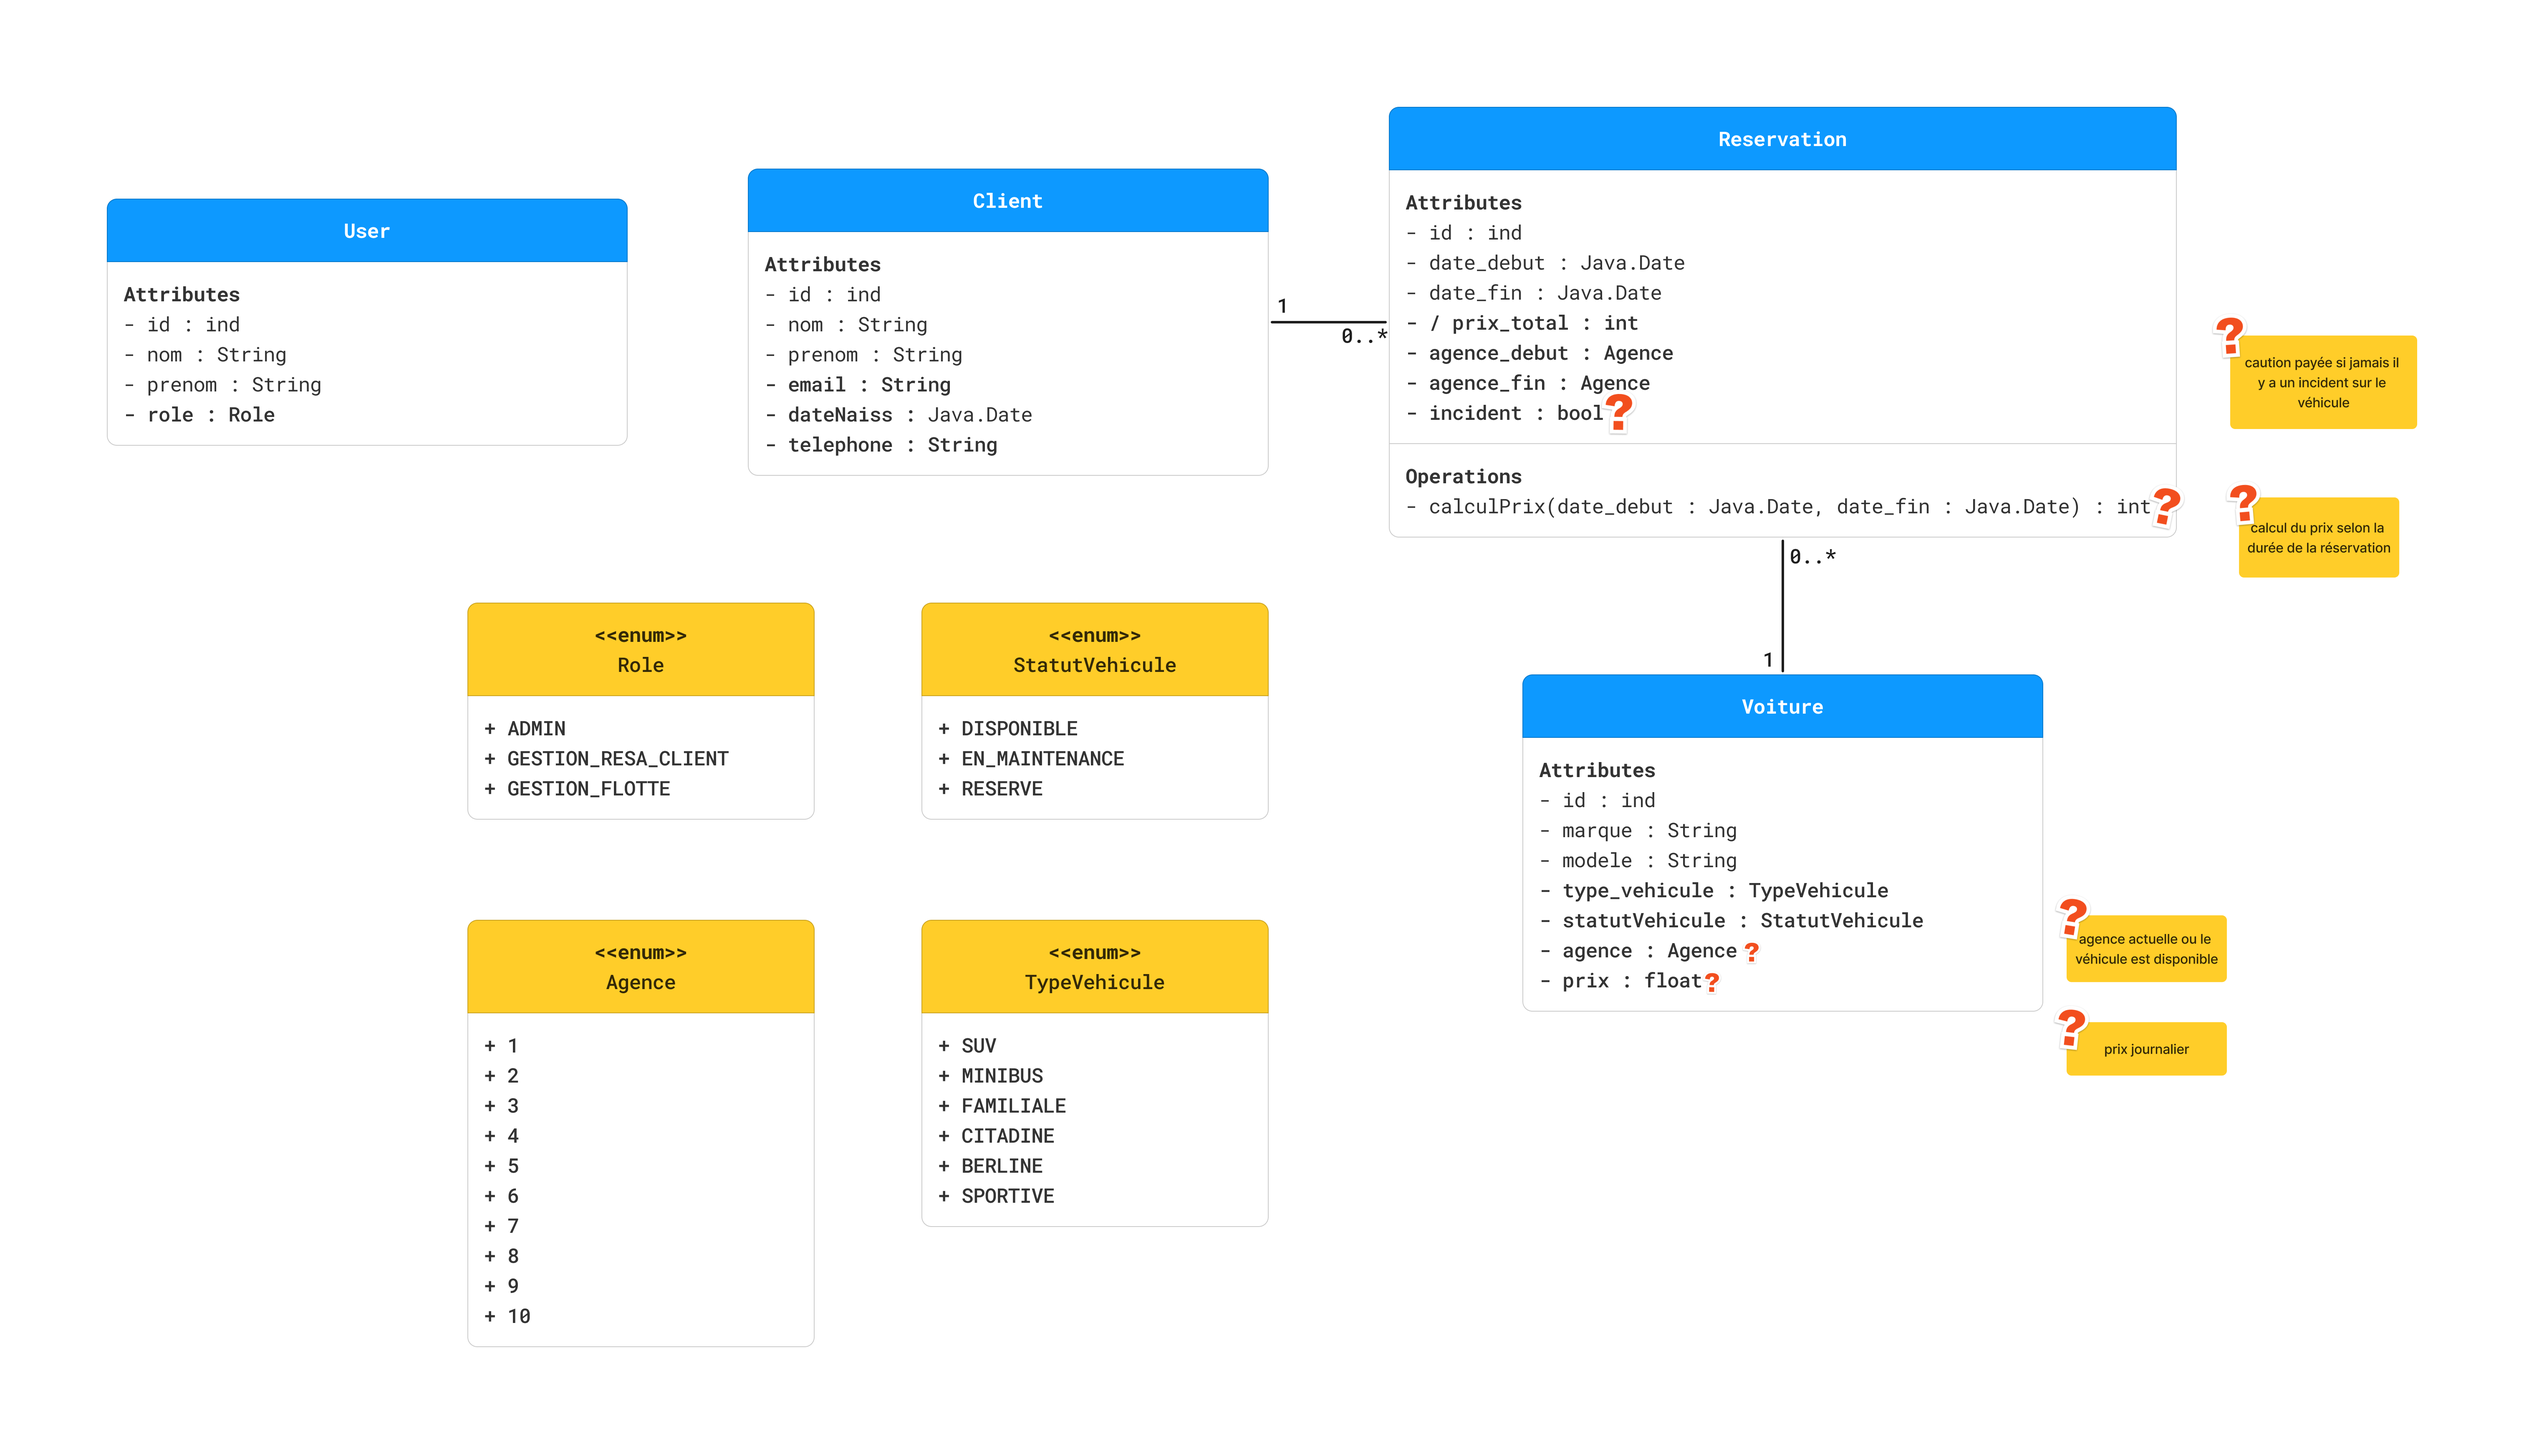
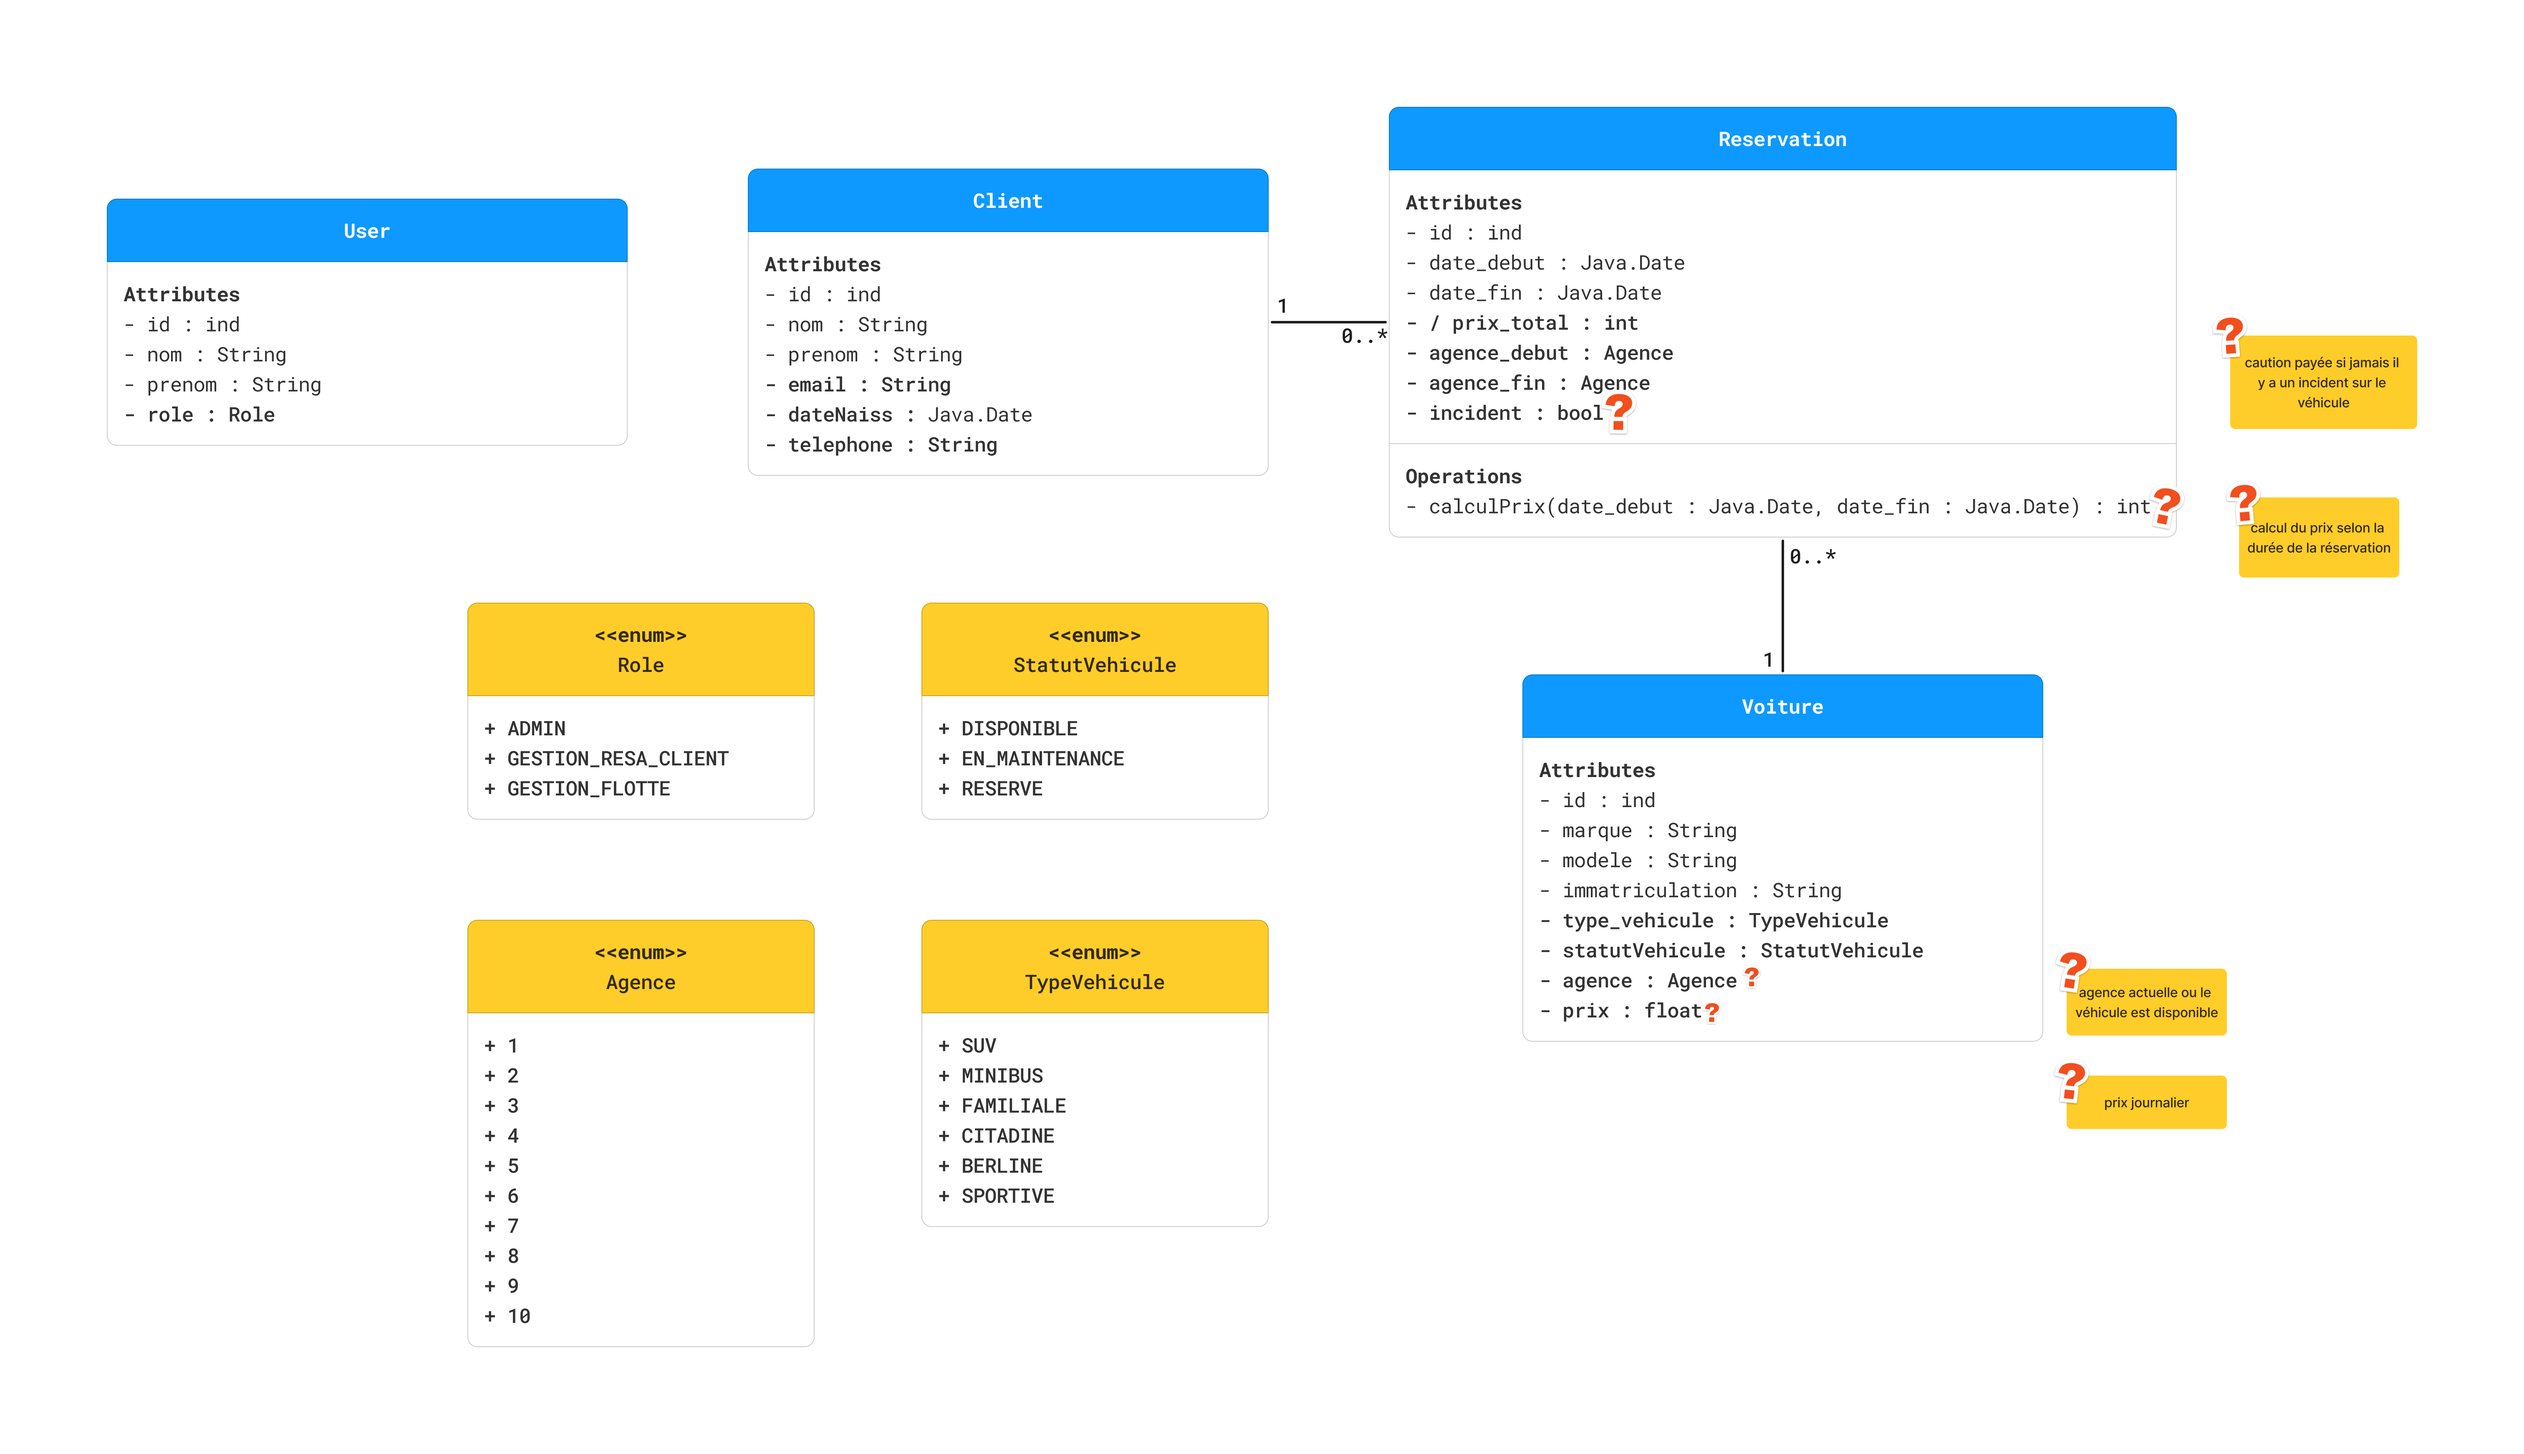
update: correction de l'uml et ajout dans le cahier des charges

Changed region(s): [[0.8125, 0.62, 0.9062, 0.775], [0.625, 0.589, 0.75, 0.713]]

diff --git a/CahierDesCharges.md b/CahierDesCharges.md
@@ -25,9 +25,6 @@ Jira : https://nihoncollection.atlassian.net/jira/software/projects/THACK/boards
 ### Critères de Qualité et de Performance
 Des tests seront effectués pour garantir la performance, la réactivité et la fiabilité de l'application sur différents systèmes d'exploitation.
 
-
-
-
 ### Diagramme de Cas d'Utilisation
 
 ![UseCase](UseCase.jpg)
@@ -56,6 +53,9 @@ Des tests seront effectués pour garantir la performance, la réactivité et la 
 
 ## Diagramme GANTT
 ![GANT.png](GANT.png)
+
+## Diagramme de Classe UML
+![UML](UML.png)
 
 # Maquette
 ### Maquette de l'inteface de connexion
